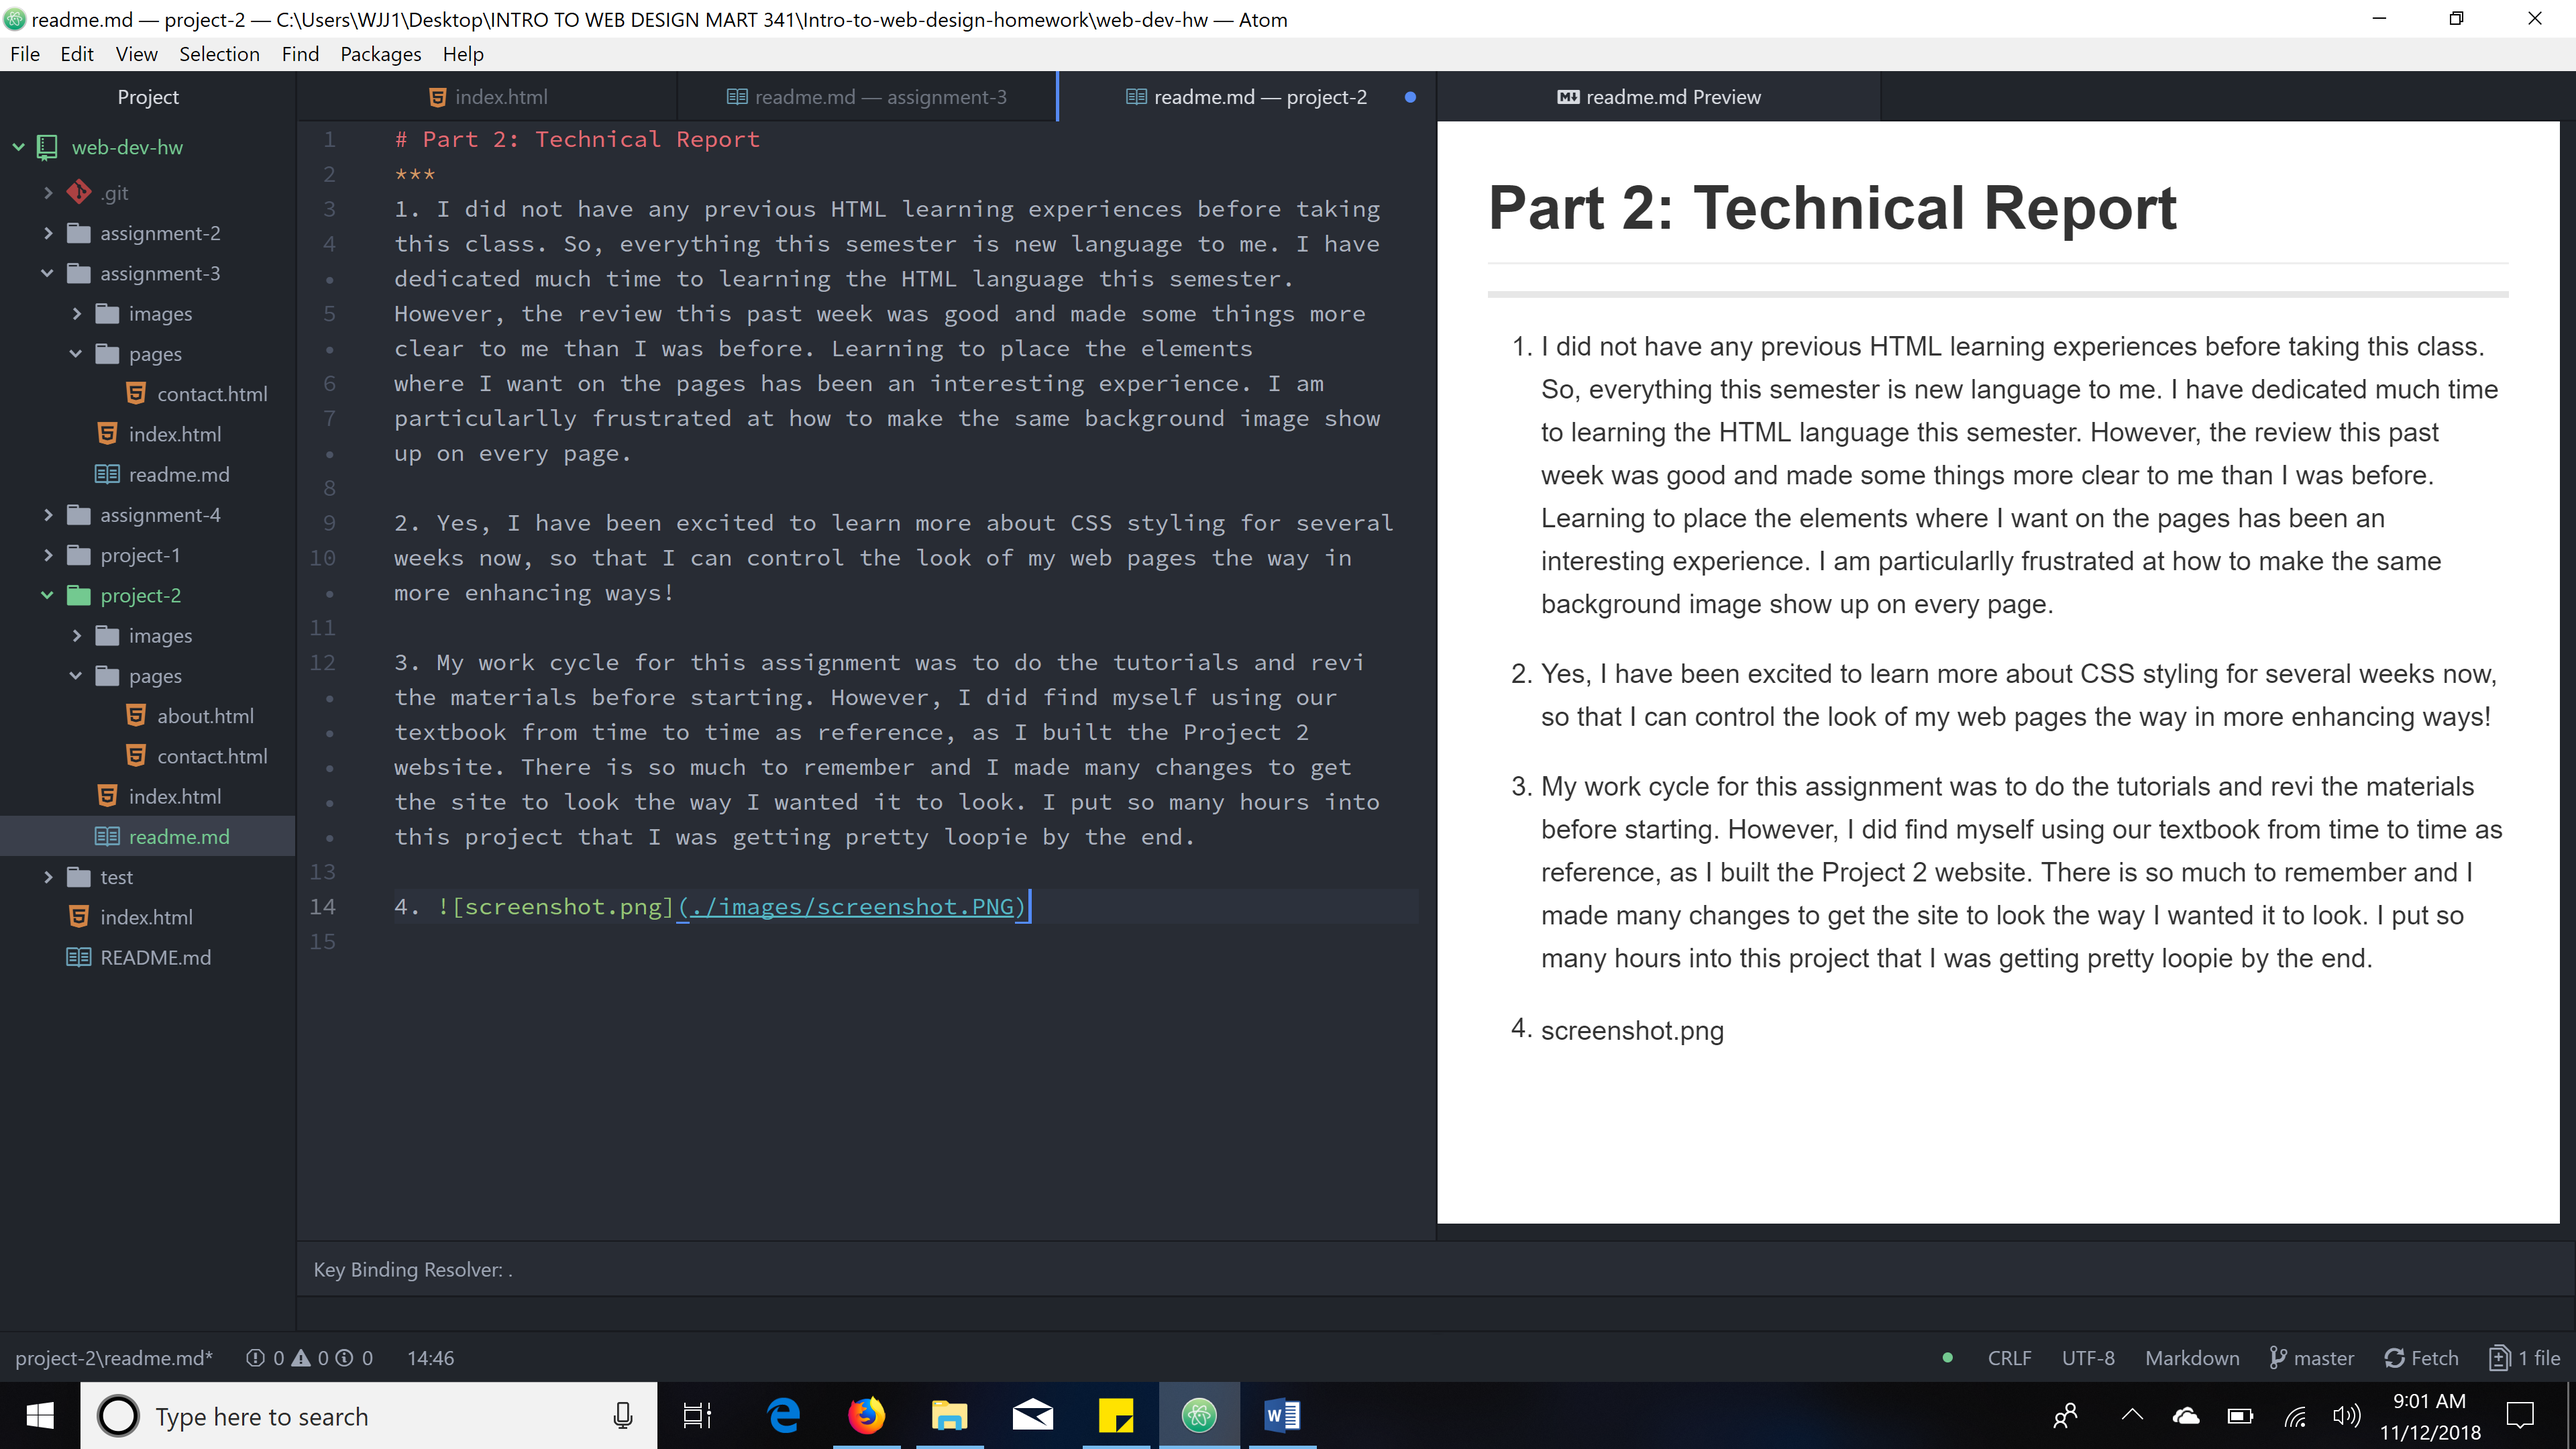
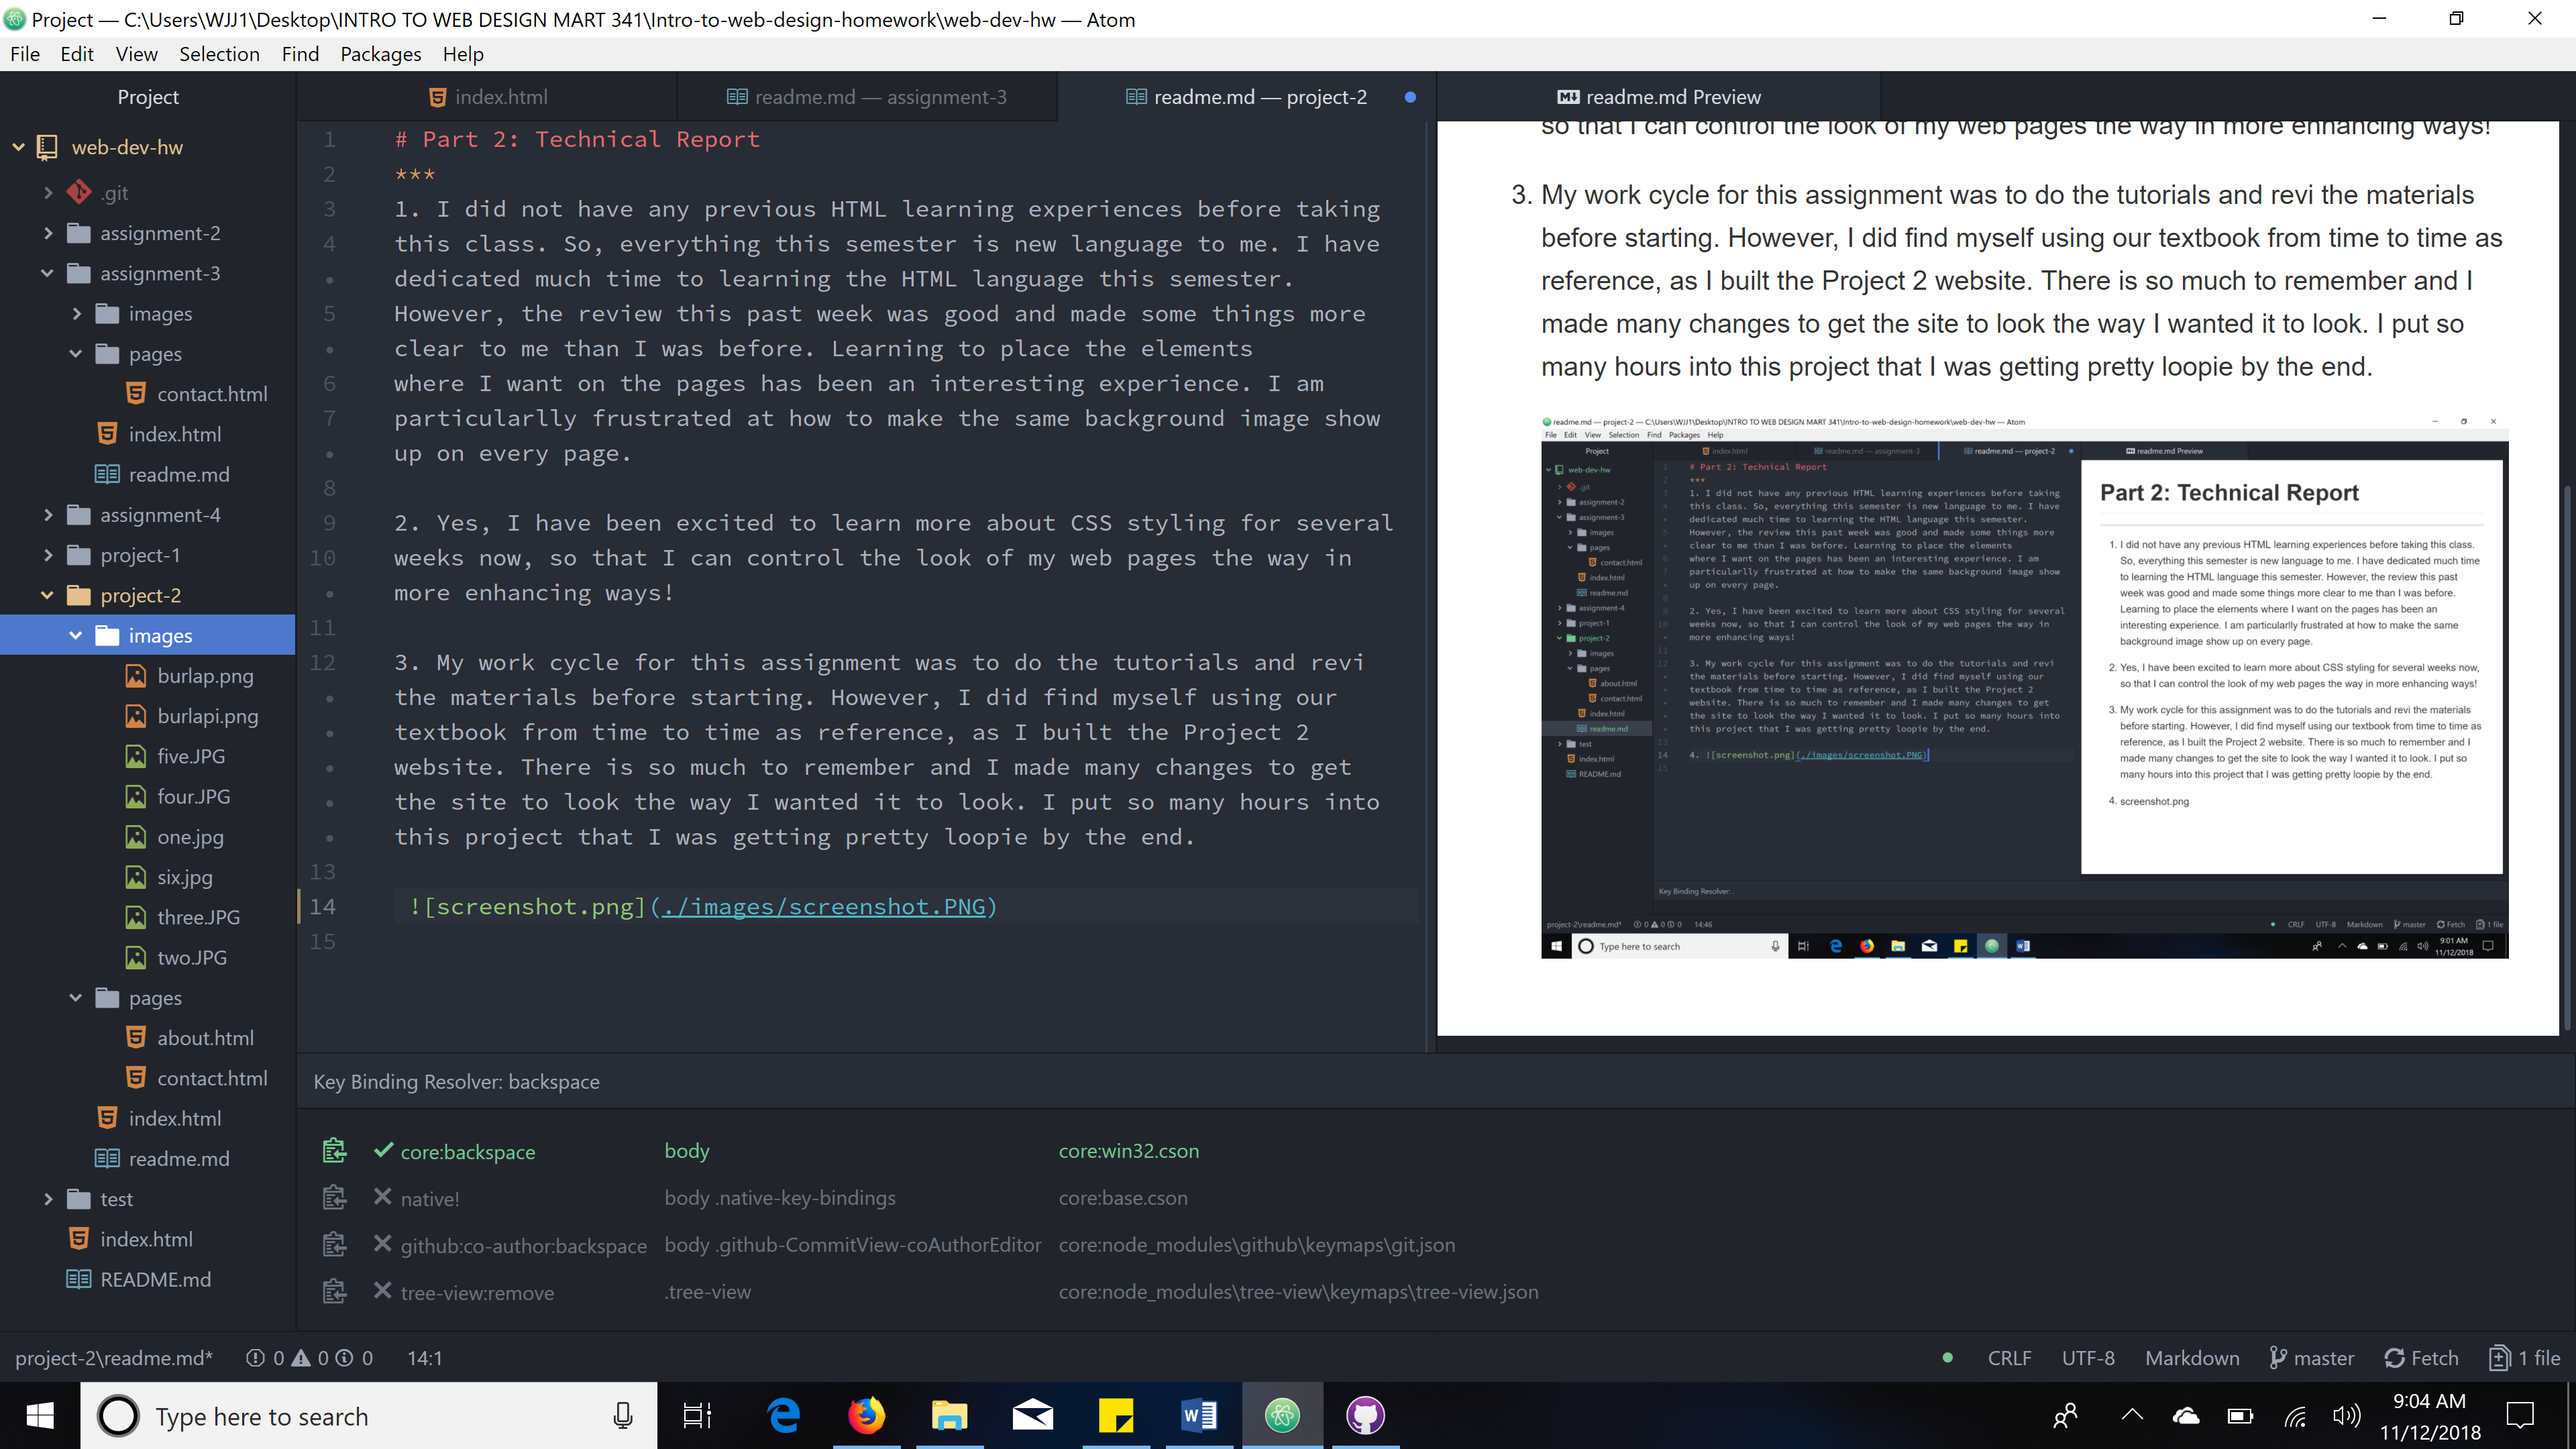
made new screenshot

diff --git a/project-2/readme.md b/project-2/readme.md
@@ -11,4 +11,4 @@ weeks now, so that I can control the look of my web pages the way in more enhanc
 
 3. My work cycle for this assignment was to do the tutorials and revi  the materials before starting. However, I did find myself using our textbook from time to time as reference, as I built the Project 2 website. There is so much to remember and I made many changes to get the site to look the way I wanted it to look. I put so many hours into this project that I was getting pretty loopie by the end.
 
-4. ![screenshot.png](./images/screenshot.PNG)
+ ![screenshot.png](./images/screenshot.PNG)
